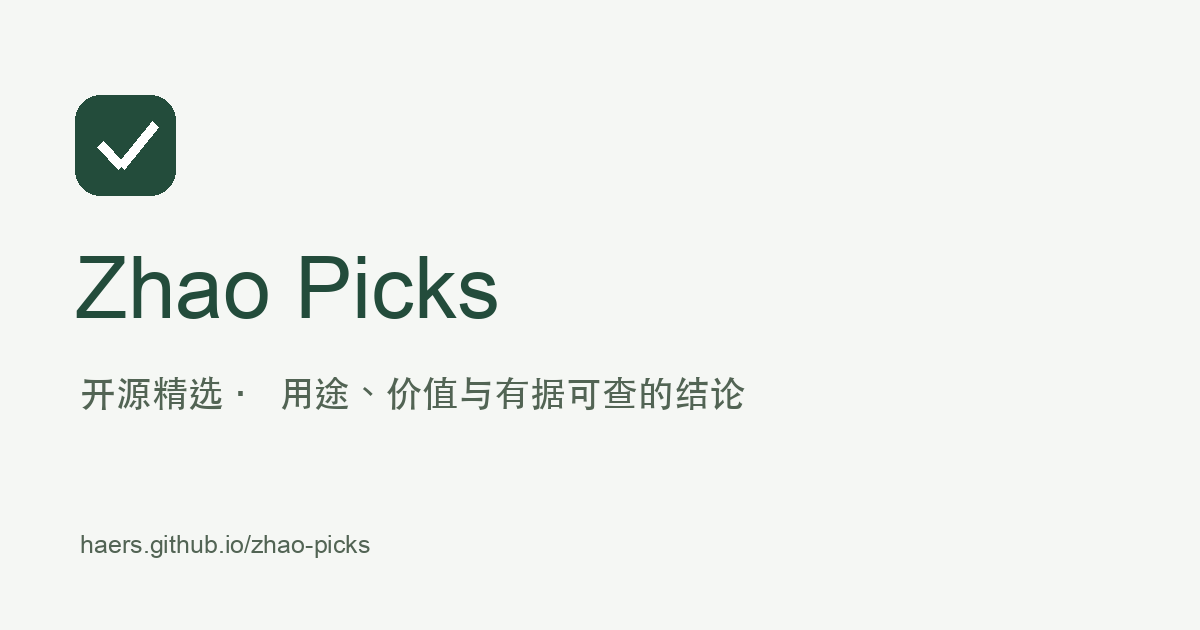
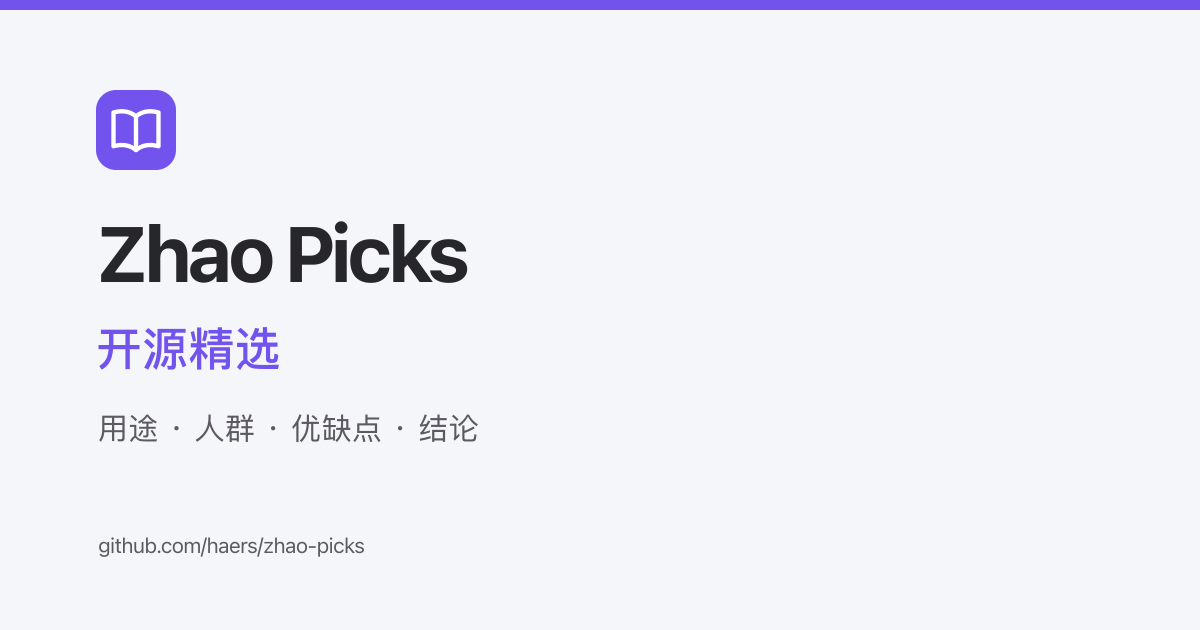
fix(picks): 恢复原生紫色并统一书本图标
沿用Just the Docs主题配色，更新页头、站点图标、桌面图标和分享图，并验证缓存版本与桌面手机显示。

AI-Executor: codex
AI-Model: gpt-6
AI-Reviewer: codex

diff --git a/site/_sass/custom/custom.scss b/site/_sass/custom/custom.scss
@@ -1,37 +1,38 @@
-$picks-green: #234c3b;
+$picks-accent: $link-color;
+$picks-border: mix($body-text-color, $body-background-color, 22%);
+$picks-active: mix($picks-accent, $body-background-color, 12%);
 
-body { color: #29332f; }
-.side-bar { background: #f5f7f4; border-right: 1px solid #d5dcd5; }
+.side-bar { background: $sidebar-color; border-right: 1px solid $picks-border; }
 .site-title { padding-top: 1.2rem; padding-bottom: 1.2rem; }
 .site-logo { width: 100%; height: 42px; background-position: left center; }
 .site-header { min-height: 88px; }
-.main-content h1 { color: #193b2b; font-weight: 650; letter-spacing: -.03em; }
-.main-content a, .nav-list .nav-list-link, .search-result-doc-title { color: $picks-green; }
-.nav-list .nav-list-link.active { font-weight: 650; background: #e6ede6; }
+.main-content h1 { color: $body-heading-color; font-weight: 650; letter-spacing: -.03em; }
+.main-content a, .nav-list .nav-list-link, .search-result-doc-title { color: $picks-accent; }
+.nav-list .nav-list-link.active { font-weight: 650; background: $picks-active; }
 .nav-list .nav-list-item .nav-list-link.active,
 .nav-list .nav-list-item > .nav-list-expander,
 .aux-nav .aux-nav-list-item a,
-.site-footer a { color: $picks-green; }
-.nav-list .nav-list-item .nav-list-link.active { background: #e6ede6; }
-.breadcrumb-nav-list-item a, .site-button { color: $picks-green; }
+.site-footer a { color: $picks-accent; }
+.nav-list .nav-list-item .nav-list-link.active { background: $picks-active; }
+.breadcrumb-nav-list-item a, .site-button { color: $picks-accent; }
 .main-content table { display: table; min-width: 650px; font-size: .875rem; }
-.main-content th { background: #edf2ec; color: #314639; }
-.main-content td, .main-content th { border-color: #d5dcd5; padding: .8rem; }
-.main-content .table-wrapper { border: 1px solid #d5dcd5; border-radius: 8px; box-shadow: none; }
+.main-content th { background: $sidebar-color; color: $body-heading-color; }
+.main-content td, .main-content th { border-color: $picks-border; padding: .8rem; }
+.main-content .table-wrapper { border: 1px solid $picks-border; border-radius: 8px; box-shadow: none; }
 .main-content p, .main-content li { line-height: 1.85; }
 .main-content h2 { margin-top: 2rem; }
-.page-context { padding: .7rem 1rem; margin-bottom: 1.7rem; background: #f0f5ee; border-left: 3px solid $picks-green; border-radius: 3px; font-size: .85rem; }
+.page-context { padding: .7rem 1rem; margin-bottom: 1.7rem; background: $sidebar-color; border-left: 3px solid $picks-accent; border-radius: 3px; font-size: .85rem; }
 .page-context a { text-decoration: none; }
 .search-input { font-family: inherit; }
 .picks-search { position: relative; flex: 1; min-width: 0; padding: .5rem 1rem; }
-.picks-search input { width: 100%; border: 1px solid #b9c8bc; border-radius: 6px; padding: .6rem .8rem; background: #fff; font: inherit; font-size: .9rem; color: #25382d; }
-.picks-search input:focus { outline: 2px solid #789d84; outline-offset: 2px; }
-.picks-search-results { position: absolute; z-index: 50; left: 1rem; right: 1rem; top: calc(100% - .2rem); max-height: 65vh; overflow-y: auto; background: #fff; border: 1px solid #b9c8bc; border-radius: 6px; box-shadow: 0 8px 18px #0001; }
+.picks-search input { width: 100%; border: 1px solid $picks-border; border-radius: 6px; padding: .6rem .8rem; background: $search-background-color; font: inherit; font-size: .9rem; color: $body-text-color; }
+.picks-search input:focus { outline: 2px solid $picks-accent; outline-offset: 2px; }
+.picks-search-results { position: absolute; z-index: 50; left: 1rem; right: 1rem; top: calc(100% - .2rem); max-height: 65vh; overflow-y: auto; background: $search-background-color; border: 1px solid $picks-border; border-radius: 6px; box-shadow: 0 8px 18px #0001; }
 .picks-search-results ul { padding: 0; margin: 0; list-style: none; }
-.picks-search-results a { display: block; padding: .8rem; border-bottom: 1px solid #e1e7e0; color: #234c3b; }
-.picks-search-results a:hover, .picks-search-results a:focus { background: #f0f5ee; }
-.picks-search-results span { display: block; margin-top: .35rem; font-size: .8rem; line-height: 1.6; color: #536255; }
-.picks-search-results p { padding: .8rem; font-size: .85rem; margin: 0; color: #536255; }
+.picks-search-results a { display: block; padding: .8rem; border-bottom: 1px solid $picks-border; color: $picks-accent; }
+.picks-search-results a:hover, .picks-search-results a:focus { background: $picks-active; }
+.picks-search-results span { display: block; margin-top: .35rem; font-size: .8rem; line-height: 1.6; color: $body-text-color; }
+.picks-search-results p { padding: .8rem; font-size: .85rem; margin: 0; color: $body-text-color; }
 @media (max-width: 49.99rem) {
   .side-bar + .main .main-header { display: flex; background: #fff; }
   .aux-nav { display: none; }
@@ -43,9 +44,9 @@ body { color: #29332f; }
   .main-content .picks-directory { display: block; min-width: 0; width: 100%; }
   .picks-directory thead { display: none; }
   .picks-directory tbody { display: block; }
-  .picks-directory tr { display: block; border: 1px solid #d5dcd5; border-radius: 8px; margin-bottom: .8rem; padding: .65rem .9rem; }
+  .picks-directory tr { display: block; border: 1px solid $picks-border; border-radius: 8px; margin-bottom: .8rem; padding: .65rem .9rem; }
   .picks-directory td { display: block; border: 0; padding: .3rem 0; min-width: 0; line-height: 1.7; }
-  .picks-directory td::before { content: attr(data-label); display: block; font-size: .7rem; color: #536255; }
+  .picks-directory td::before { content: attr(data-label); display: block; font-size: .7rem; color: $body-text-color; }
   .picks-directory td:first-child { font-size: 1rem; font-weight: 650; }
   .picks-directory td:first-child::before { display: none; }
 }

diff --git a/site/_includes/head_custom.html b/site/_includes/head_custom.html
@@ -1,5 +1,5 @@
-<meta name="theme-color" content="#234c3b">
-<link rel="apple-touch-icon" href="{{ '/assets/apple-touch-icon.png' | relative_url }}">
-<meta property="og:image" content="{{ '/assets/social.png' | absolute_url }}">
+<meta name="theme-color" content="#7253ed">
+<link rel="apple-touch-icon" href="{{ '/assets/apple-touch-icon.png' | relative_url }}?v={{ site.picks_asset_version }}">
+<meta property="og:image" content="{{ '/assets/social.png' | absolute_url }}?v={{ site.picks_asset_version }}">
 <meta name="twitter:card" content="summary_large_image">
 <script defer src="{{ '/assets/search.js' | relative_url }}"></script>

diff --git a/site/_includes/favicon.html b/site/_includes/favicon.html
@@ -1,0 +1,1 @@
+<link rel="icon" href="{{ site.favicon_ico | relative_url }}?v={{ site.picks_asset_version }}" type="image/svg+xml" sizes="any">
